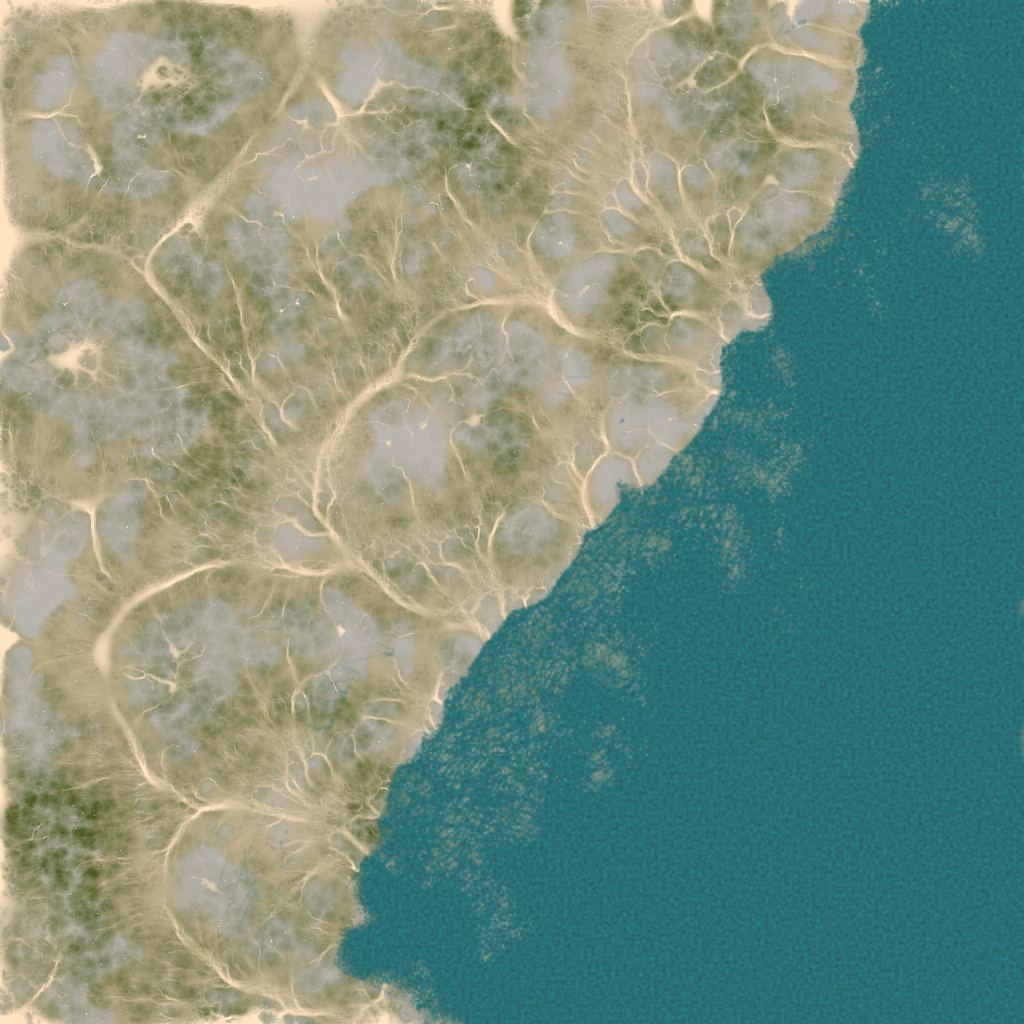
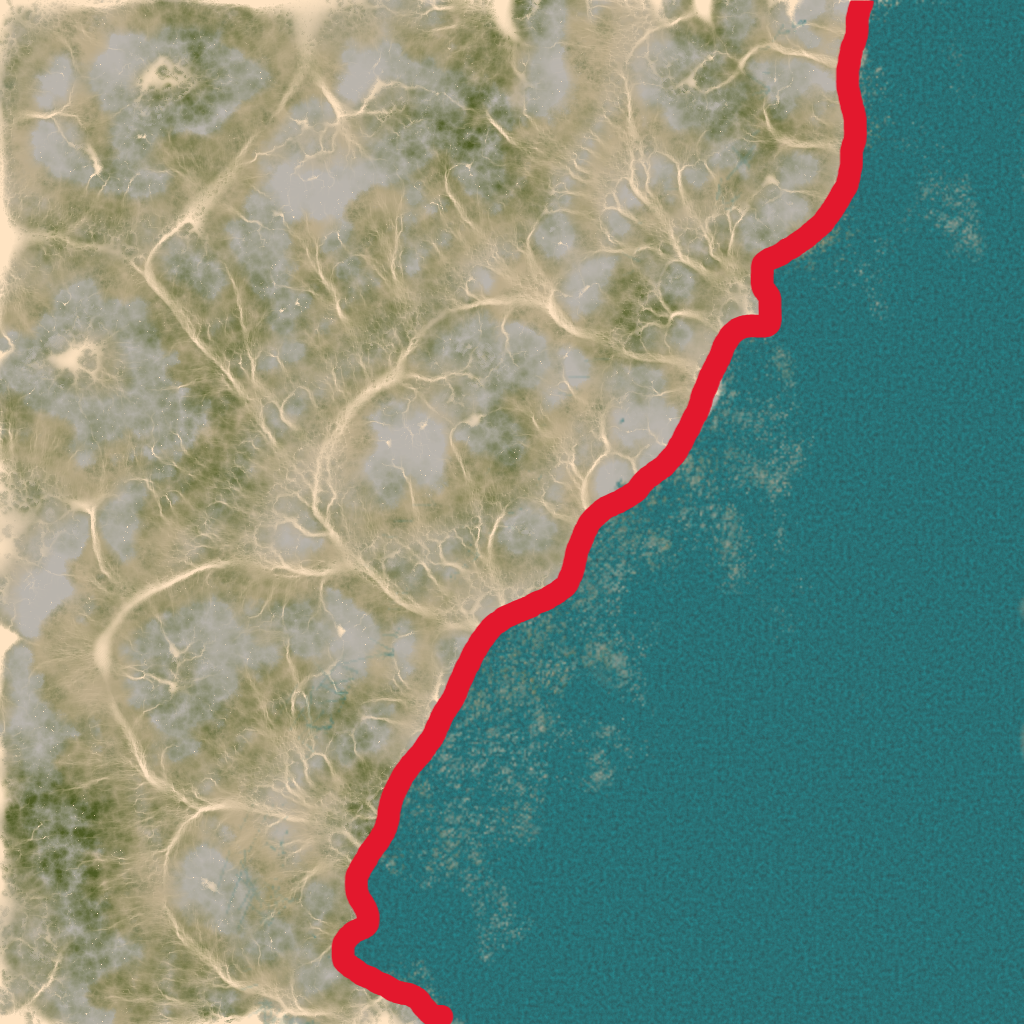
map color

Changed region(s): [[0.3125, 0.0, 0.875, 1.0]]

diff --git a/src/scripts/three_starter.js b/src/scripts/three_starter.js
@@ -86,7 +86,7 @@ scene.composer = null;
 //scene.fog = new THREE.Fog( 0xcccccc, 1, 1500 );
 
 
-let mapPlane, riverPlane, mapPlaneMaterial, riverMaterial
+let mapPlane, riverPlane, riverMaterial
 
 let positionRenderTarget , positionScene, positionCamera, positionMesh
 
@@ -113,12 +113,12 @@ const riverPlaneSegments = 2
 
 const fragColorPlaneWidth = 200
 const fragColorPlaneHeight = 200
-const fragColorPlaneSegments = 10//mapPlaneSegments//mapPlaneSegments
+const fragColorPlaneSegments = 1000//mapPlaneSegments//mapPlaneSegments
 
 const fragColorPlaneDisplacementScale = 30
 const textureScaleZ = 0.6
 
-const grassCount = 300000
+const grassCount = 500000
 
 export const sceneLoadPromise = new Promise(function (resolve, reject) {
 	loader.loadGLTF("./3d/three_starter.glb", async (gltf) => {
@@ -128,61 +128,7 @@ export const sceneLoadPromise = new Promise(function (resolve, reject) {
 		console.log(scene, renderer);
 
 
-		////////////////// MAP GEOMETRY ////////////
-
 		
-
-        
-
-        const mapPlaneGeometry = new THREE.PlaneGeometry(mapPlaneWidth, mapPlaneHeight, mapPlaneSegments, mapPlaneSegments)
-        const mapPlaneMaterial = new THREE.MeshStandardMaterial({ 
-            color: 0xffffff,
-            map:map,
-            //wireframe: true,
-            displacementMap: displacement,
-            displacementScale: mapPlaneDisplacementScale,
-        })
-
-        // const uniforms = {
-        // 	uDisplacementMap: { value: displacement },
-        //     uDisplacementScale: { value: 1.0 },
-        //     uTime: { value: 0.0 },
-        // }
-
-     //    mapPlaneMaterial = new CustomShaderMaterial({
-	    //     baseMaterial: baseMaterial,
-	    //     vertexShader: shaderV,
-	    //     fragmentShader: shaderF,
-	    //     uniforms: uniforms,
-	    //     onBeforeCompile: (shader) => {console.log({shader})}
-	    // });
-
-	    // riverMaterial = new THREE.MeshStandardMaterial({ 
-     //        color: 0x00ffff, //Red
-     //    })
-
-	    riverMaterial = new THREE.ShaderMaterial({
-	    	uniforms: THREE.UniformsUtils.merge( [
-				THREE.UniformsLib[ 'fog' ], {
-					uTime: {value: 0.0}
-				}
-      		]),
-	    	vertexShader: waterV,
-	    	fragmentShader: waterF,
-	        fog: true,
-	    })
-
-	    mapPlane = new THREE.Mesh(mapPlaneGeometry, mapPlaneMaterial)
-	    riverPlane = new THREE.Mesh(new THREE.PlaneGeometry(mapPlaneWidth, mapPlaneHeight, riverPlaneSegments, riverPlaneSegments), riverMaterial)
-
-        mapPlane.rotation.x = -Math.PI / 2
-        riverPlane.rotation.x = -Math.PI / 2
-
-        mapPlane.position.y = 0.1
-        riverPlane.position.y = 2
-
-        scene.add(mapPlane)
-        scene.add(riverPlane)
 
         /// UPDATE VERTEX HEIGHT ////
 
@@ -303,6 +249,64 @@ scene.add(new THREE.AmbientLight(0x80a0ff, 0.4));
 renderer.toneMapping = THREE.ReinhardToneMapping;
 renderer.toneMappingExposure = 1.2;
 renderer.shadowMap.type = THREE.PCFSoftShadowMap;
+
+
+////////////////// MAP GEOMETRY ////////////
+
+		
+
+        
+
+        const mapPlaneGeometry = new THREE.PlaneGeometry(mapPlaneWidth, mapPlaneHeight, mapPlaneSegments, mapPlaneSegments)
+        const mapPlaneMaterial = new THREE.MeshStandardMaterial({ 
+            color: "#ffffff",//"#339966",
+            //map:map,
+            //wireframe: true,
+            displacementMap: displacement,
+            displacementScale: mapPlaneDisplacementScale,
+            //displacementBias: 1
+        })
+
+        // const uniforms = {
+        // 	uDisplacementMap: { value: displacement },
+        //     uDisplacementScale: { value: 1.0 },
+        //     uTime: { value: 0.0 },
+        // }
+
+     //    mapPlaneMaterial = new CustomShaderMaterial({
+	    //     baseMaterial: baseMaterial,
+	    //     vertexShader: shaderV,
+	    //     fragmentShader: shaderF,
+	    //     uniforms: uniforms,
+	    //     onBeforeCompile: (shader) => {console.log({shader})}
+	    // });
+
+	    // riverMaterial = new THREE.MeshStandardMaterial({ 
+     //        color: 0x00ffff, //Red
+     //    })
+
+	    riverMaterial = new THREE.ShaderMaterial({
+	    	uniforms: THREE.UniformsUtils.merge( [
+				THREE.UniformsLib[ 'fog' ], {
+					uTime: {value: 0.0}
+				}
+      		]),
+	    	vertexShader: waterV,
+	    	fragmentShader: waterF,
+	        fog: true,
+	    })
+
+	    mapPlane = new THREE.Mesh(mapPlaneGeometry, mapPlaneMaterial)
+	    riverPlane = new THREE.Mesh(new THREE.PlaneGeometry(mapPlaneWidth, mapPlaneHeight, riverPlaneSegments, riverPlaneSegments), riverMaterial)
+
+        mapPlane.rotation.x = -Math.PI / 2
+        riverPlane.rotation.x = -Math.PI / 2
+
+        mapPlane.position.y = 0.1
+        riverPlane.position.y = 2
+
+        scene.add(mapPlane)
+        scene.add(riverPlane)
 
 ///////// GPGPU ///////////////
 
@@ -805,12 +809,16 @@ const stats = {
 	triangles: 0,
 	geometries: 0,
 	textures: 0,
+	color: "#ffffff"
 }
 
 gui.add(stats, 'renderCalls').name('Render Calls').listen()
 gui.add(stats, 'triangles').name('Triangles').listen()
 gui.add(stats, 'geometries').name('Geometries').listen()
 gui.add(stats, 'textures').name('Textures').listen()
+gui.addColor(stats, 'color').name('landColor').onChange((value) => {
+    mapPlaneMaterial.color.set(value)
+})
 
 
 
